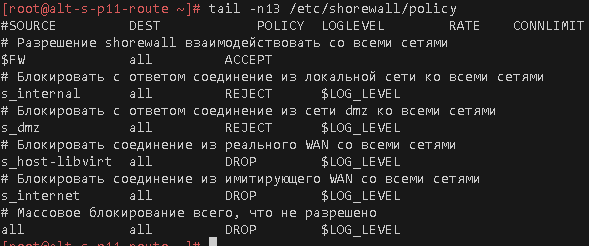
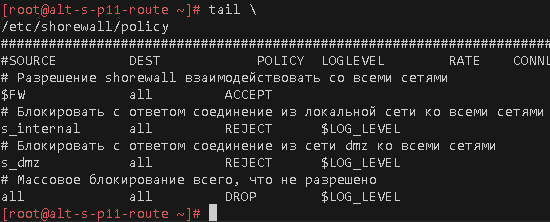
оформление для ADM6, lab3 shorewall ready _update2

diff --git a/adm6/lab3/README.md b/adm6/lab3/README.md
@@ -70,7 +70,7 @@ sudo virsh start \
 --domain adm6_altlinux_s1
 
 # Поочередный запуск для лабораторной работы ВМ alt-s-p11-2 - internet и alt-w-p11-1.den.skv - internal
-for l1 in s2 w1; do \
+for l1 in s{2,3} w1; do \
 sudo bash -c \
 "virsh start \
 --domain adm6_altlinux_$l1"
@@ -163,16 +163,12 @@ $FW             all         ACCEPT
 s_internal      all         REJECT      $LOG_LEVEL
 # Блокировать c ответом соединение из сети dmz ко всеми сетями
 s_dmz           all         REJECT      $LOG_LEVEL
-# Блокировать соединение из реального WAN со всеми сетями
-s_libvirt  all         DROP        $LOG_LEVEL
-# Блокировать соединение из имитирующего WAN со всеми сетями
-s_internet      all         DROP        $LOG_LEVEL
 # Массовое блокирование всего, что не разрешено
 all             all         DROP        $LOG_LEVEL
 EOF
 
 # Вывод описания политик по умолчанию
-tail -n13 \
+tail \
 /etc/shorewall/policy
 ```
 
@@ -233,32 +229,20 @@ sadmin@192.168.121.2 \
 "su -"
 
 cat >> /etc/shorewall/rules <<'EOF'
-# Правила из зоны локальной сети
 ## ssh
-SSH(ACCEPT)         s_internal      all
+SSH(ACCEPT)         s_internal,s_libvirt      all
 ## http\https
-HTTP(ACCEPT)        s_internal      s_libvirt
-HTTPS(ACCEPT)       s_internal      s_libvirt
-HTTP(ACCEPT)        s_internal      s_internet
-HTTPS(ACCEPT)       s_internal      s_internet
-HTTP(ACCEPT)        s_internal      s_dmz:10.20.20.244
 HTTPS(ACCEPT)       s_internal      s_dmz:10.20.20.244
+Web(ACCEPT)         s_internal      fw,s_libvirt,s_internet
+Web(ACCEPT)         s_internet      fw,s_libvirt
 ## icmp
-Ping(ACCEPT)        s_internal      s_libvirt
-Ping(ACCEPT)        s_internal      s_internet
+Ping(ACCEPT)        s_internal      fw,s_libvirt,s_internet
 ## dns
-DNS(ACCEPT)         s_internal      s_libvirt
-# Привила доступа из сетей WAN
-### разрешенное общение между имитируемой и реальной сетью
-Web(ACCEPT)         s_libvirt  s_internet:10.0.0.9
-Web(ACCEPT)         s_internet      s_libvirt
-## dns
-DNS(ACCEPT)         s_internet      s_libvirt
-#№ для доступа по SSH с хоста libvirt через общий хост-бастион на все сети
-SSH(ACCEPT)         s_libvirt       all
-# Привила доступа из DMZ
-Web(ACCEPT)         s_dmz           s_libvirt
-DNS(ACCEPT)         s_dmz           s_libvirt
+DNS(ACCEPT)         s_internal,s_internet   fw,s_libvirt
+DNS(ACCEPT)         s_libvirt               fw
+### для обновления пакетов хостов в dmz
+DNS(ACCEPT)         s_dmz                   fw,s_libvirt
+Web(ACCEPT)         s_dmz                   fw,s_libvirt
 EOF
 
 # Вывод описания правил
@@ -269,24 +253,20 @@ grep -A33 "#ACTION" \
 ```bash
 # SNAT из контролируемых зон
 cat >> /etc/shorewall/snat <<'EOF'
+# ens5 # - 192.168.121.0/24 - "s_host-libvirt" - сеть реального выхода в интернет
+# ens6 # - 10.0.0.0/24 - "s_internet" - сеть имитации интернет
+# ens7 # - 10.1.1.244 - "s_internal" - сеть локальной сети
+# ens8 # - 10.20.20.244 - "s_dmz" - сеть DMZ
 # Трансляция nat до реальной сети интернет сетей s_internal и s_dmz
 MASQUERADE          ens7        ens5
 MASQUERADE          ens8        ens5
-# Трансляция nat до имитируемой сети интернет из локальной сети и dmz
-MASQUERADE          ens7        ens6
+# Трансляция nat до имитируемой сети интернет из dmz
 MASQUERADE          ens8        ens6
 EOF
 
 # вывод правил snat 
-tail -7 \
+tail \
 /etc/shorewall/snat
-
-# Организация трансляции из вне до DMZ по http\s
-cat >> /etc/shorewall/rules <<'EOF'
-### DNAT 
-Web(DNAT)           s_internet      s_dmz:10.20.20.244
-Web(DNAT)           s_libvirt       s_dmz:10.20.20.244
-EOF
 
 # Вывод описания правил и DNAT
 grep -A36 "#ACTION" \
@@ -310,6 +290,8 @@ systemctl enable \
 --now \
 shorewall
 ```
+![](img/GIF.gif)
+
 ```bash
 # Поочередная остановка запущенных ВМ
 for l1 in s{1..4} w1; do \
@@ -333,7 +315,7 @@ git add . .. ../.. \
 
 git remote -v
 
-git commit -am 'оформление для ADM6, lab3 shorewall ready' \
+git commit -am 'оформление для ADM6, lab3 shorewall ready _update2' \
 && git push \
 --set-upstream \
 altlinux \
